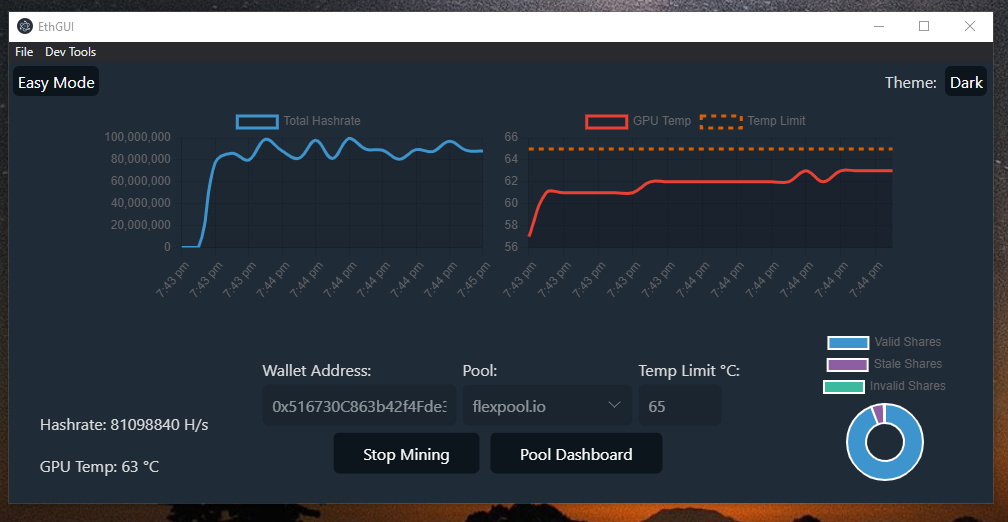
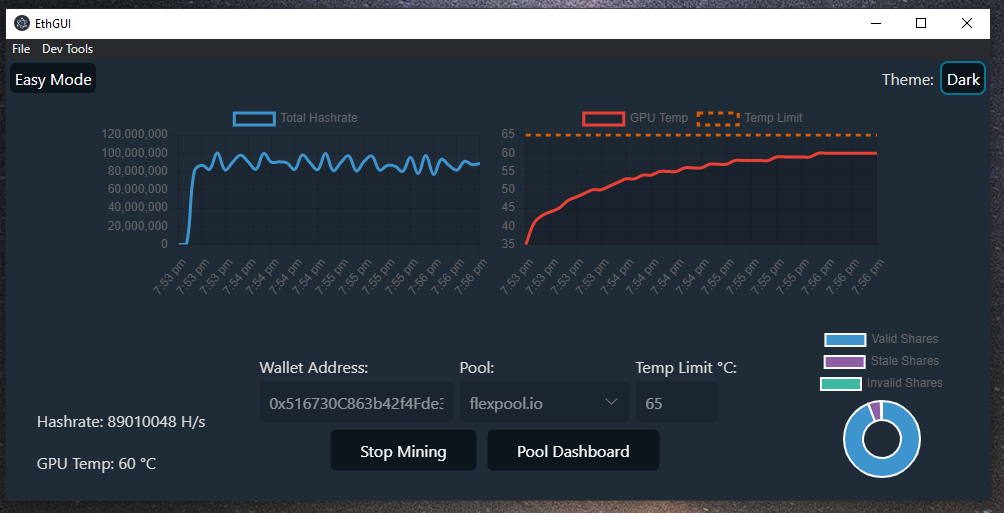
Added real-time charts

diff --git a/main.js b/main.js
@@ -12,8 +12,12 @@ let mainWindow;
 let settingsWindow;
 var miner;
 var running;
-var refreshRate = 2000;
+var refreshRate = 5000;
 var socketClient;
+var hashrateDeque = [0];
+var hrChart;
+var tempChart;
+var shareChart;
 
 // Listen for app to be ready
 app.on('ready', function() {
@@ -46,6 +50,7 @@ app.on('ready', function() {
     const mainMenu = Menu.buildFromTemplate(mainMenuTemplate);
     // Insert menu - comment out for dev menu
     Menu.setApplicationMenu(mainMenu);
+    
 });
 
 // Menu Template
@@ -149,6 +154,9 @@ function startMining(state, address, tempLimit, pool){
     // Start/stop mining
     if (state === "Start Mining!") {
         // Update UI Elements
+        // Init charts
+        initCharts()
+
         button.textContent = 'Stop Mining';
         addressBox.disabled = true;
         poolBox.disabled = true;
@@ -184,29 +192,171 @@ function startMining(state, address, tempLimit, pool){
     }
 }
 
+function initCharts() {
+    var Chart = require('chart.js');
+    if (hrChart) {hrChart.destroy()}
+    hrChart = new Chart(document.getElementById("hashrate-chart"), {
+    type: 'line',
+    data: {
+        labels: [],
+        datasets: [{ 
+            data: [0],
+            label: "Total Hashrate",
+            borderColor: "#3e95cd",
+            fill: true,
+            tension: 0.4
+        }
+        ]
+    },
+    options: {
+        radius: 0,
+        scales: {
+            y: {
+                min: 0,
+            }
+        },
+        title: {
+        display: true,
+        text: 'World population per region (in millions)'
+        }
+    }
+    });
+    if (tempChart) {tempChart.destroy()}
+    tempChart = new Chart(document.getElementById("temp-chart"), {
+        type: 'line',
+        data: {
+            labels: [],
+            datasets: [{ 
+                data: [],
+                label: "GPU Temp",
+                borderColor: "#eb4034",
+                fill: true,
+                tension: 0.4
+            },
+            { 
+                data: [],
+                label: "GPU Temp Limit",
+                borderDash: [5, 5],
+                borderColor: "#db5f00",
+                fill: true
+            }
+            ]
+        },
+        options: {
+            // scales: {
+            //     y: {
+            //         min: 0,
+            //     }
+            // },
+            radius: 0,
+            title: {
+            display: true,
+            text: 'World population per region (in millions)'
+            }
+        }
+        });
+    if (shareChart) {shareChart.destroy()}
+    shareChart = new Chart(document.getElementById("doughnut-chart"), {
+        type: 'doughnut',
+        data: {
+        labels: ["Valid Shares", "Stale Shares", "Invalid Shares"],
+        datasets: [
+            {
+            label: "Population (millions)",
+            backgroundColor: ["#3cba9f", "#fcba03","#fc0303"],
+            data: [541,31,3]
+            }
+        ]
+        },
+        options: {
+        title: {
+            display: true,
+            text: 'Shares submitted to the pool.'
+        }
+        }
+    });
+}
+
+
 function apiCall() {
     if (running) {
         setTimeout(() => {
-            request = '{"id":1,"jsonrpc":"2.0","method":"miner_getstatdetail"}'
             
             // Send the request
+            request = '{"id":1,"jsonrpc":"2.0","method":"miner_getstatdetail"}'
             socketClient = net.connect({host:'localhost', port:8888},  () => {              
                 socketClient.write(request + '\r\n');
             });
         
             // Listen for the response
+            var response;
             socketClient.on('data', (data) => {
-                var response = JSON.parse(data).result;
-                console.log(response);
+                response = JSON.parse(data).result;
+                updateUI(response);
                 socketClient.end();
             });
 
             // On disconnect
             socketClient.on('end', () => {
-                console.log('disconnected from server');
+                //console.log('Disconnected from API');
+            });
+
+            // On error
+            socketClient.on("error", (err) => {
+                console.log("Caught flash policy server socket error: ")
+                console.log(err.stack)
             });
 
             apiCall();
         }, refreshRate)
     }   
+}
+
+function updateLineChart(chart, data, maxlength) {
+    // Add hashrate to our deque
+    chart.data.labels.push(getTime())
+    var i = 0;
+    chart.data.datasets.forEach((dataset) => {
+        dataset.data.push(data[i]);
+        i++;
+    });
+    // Remove old hashrates
+    if (chart.data.datasets[0].data.length > maxlength) {
+        chart.data.datasets[0].data.shift();
+        chart.data.labels.shift();
+    }
+    chart.update()
+}
+
+function updateUI(data) {
+    var hashrate = parseInt(data.mining.hashrate);
+    var gpuTemp = data.devices[0].hardware.sensors[0]
+    var memTemp = data.devices[0].hardware.sensors[3]
+    var tempLimit = document.getElementById('temp-limit').value;
+
+    console.log('Hashrate: ' + hashrate)
+    if (hashrate) {
+        document.getElementById('hashrate').textContent = hashrate;
+        updateLineChart(hrChart, [hashrate], 300);
+    }
+    if (gpuTemp) {
+
+        document.getElementById('gpu-temp').textContent = gpuTemp;
+        updateLineChart(tempChart, [gpuTemp, tempLimit], 300)
+        console.log(data)
+    }
+}
+
+
+function getTime() {
+    var date = new Date();
+    var hours = date.getHours();
+    var minutes = date.getMinutes();
+    var ampm = hours >= 12 ? 'pm' : 'am';
+    hours = hours % 12;
+    hours = hours ? hours : 12; // the hour '0' should be '12'
+    minutes = minutes < 10 ? '0'+minutes : minutes;
+    var strTime = hours + ':' + minutes + ' ' + ampm;
+
+    return strTime;
 }

diff --git a/html/easy.html b/html/easy.html
@@ -42,6 +42,23 @@
                 <button id="theme-button" class="minimal-button" onclick="toggleTheme()">Auto</button>
             </div>
 
+            <div id="charts">
+                <div id="hashrate-chart-div">
+                    <canvas id="hashrate-chart"></canvas>
+                </div>
+                <div id="temp-chart-div">
+                    <canvas id="temp-chart"></canvas>
+                </div>
+                <div id="pie-chart-div">
+                    <canvas id="doughnut-chart"></canvas>
+                </div>
+            </div>
+
+            <div id="information">
+                Hashrate: <label id="hashrate">0</label> H/s</p>
+                GPU Temp: <label id="gpu-temp">0</label> °C
+            </div>
+
             <div id="main-controls">
 
                 <div id="address-div">

diff --git a/css/style.css b/css/style.css
@@ -39,10 +39,41 @@
     float: left;
 }
 
+#charts {
+    position: fixed;
+    top: 10vh;
+}
+
 #button-div {
     position: fixed;
     left: 50%;
     bottom: 0px;
     transform: translate(-50%, -50%);
     margin: 0 auto;
+}
+
+#hashrate-chart-div {
+    float: left; 
+    position: relative; 
+    width: 90vh;
+}
+
+#temp-chart-div {
+    float: left; 
+    position: relative; 
+    width: 90vh;
+}
+
+#pie-chart-div { 
+    position: fixed; 
+    bottom: 5vh;
+    right: 7vh;
+    height: 35vh; 
+    width: 35vh;
+}
+
+#information {
+    position: fixed; 
+    bottom: 5vh;
+    left: 7vh;
 }
